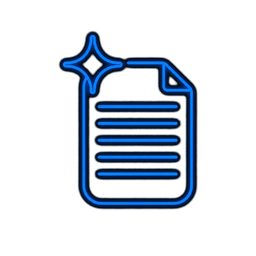
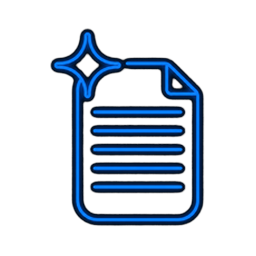
Иконки подключены к узлам, кружок 72 px
Узлы веера были безымянными кружками: восемнадцать одинаковых точек,
различавшихся только подписью. Теперь у каждой системы своё лицо, и докладчик
показывает рукой на предмет, а не зачитывает список.

Размер 72 px согласован до генерации, а не подобран после: рисунок требует
больше места, чем точка, а смотреть на один размер и получить другой заказчику
незачем.

Знаки приведены к одному оптическому размеру. Генератор кадрирует как придётся —
замер показал разброс от 54 до 95 процентов ширины холста, и при одинаковом
размере элемента это читалось бы как иконки разного веса. Каждый знак обрезан
по своим границам и вписан в 78% холста по большей стороне. Именно по большей:
у «AIAN перевозки» знак широкий и низкий, растягивать его по высоте нельзя.
После нормализации большая сторона у всех 77–78%.

Знак сохраняет собственный фирменный синий и не красится в цвет стадии. Цвет
стадии несут волна под знаком, подпись передела и строка возврата; иконка
отвечает за узнавание продукта. Один цвет не может значить двух вещей.

Связь «система — иконка» идёт по имени проекта: своего кода у проекта в данных
нет, а заводить новое поле значит развести «сцену» и «цепочку». Имя переименуют —
иконка исчезнет молча, поэтому в отладочный крючок выставлен список систем без
иконки, и он проверяется замером, а не доверием.

Ядро-точка осталась запасным видом: если иконка не найдена, узел рисуется
точкой, а не пустым кружком.

Проверено прогоном по всем восьми блокам: 18 узлов, 18 знаков, ни одного
[…]

Changed region(s): [[0.1875, 0.0938, 0.8125, 0.9062]]

diff --git a/сцена.html b/сцена.html
@@ -187,10 +187,21 @@ body.вглубь .сквозная{pointer-events:none}
   width:min(20vw,220px)}
 .узел.виден{opacity:1;pointer-events:auto}
 .узел.ушёл{opacity:0;pointer-events:none}
-.узел .кружок{width:52px;height:52px;margin:0 auto;border-radius:50%;position:relative;
+/* 72 px, а не 52: рисунок требует больше места, чем точка, и запас у веера
+   есть — узлы стоят свободно. Размер согласован с заказчиком до генерации
+   иконок, чтобы он смотрел на тот же размер, какой получит. */
+.узел .кружок{width:72px;height:72px;margin:0 auto;border-radius:50%;position:relative;
   display:grid;place-items:center;transition:transform .2s}
 .узел:hover .кружок{transform:scale(1.1)}
-.узел .ядро{width:20px;height:20px;border-radius:50%;background:currentColor}
+/* Ядро осталось запасным видом: если иконка для системы не найдена, узел
+   рисуется точкой, а не пустым кружком. Молча ломаться он не должен. */
+.узел .ядро{width:22px;height:22px;border-radius:50%;background:currentColor}
+/* Знак сохраняет собственный фирменный синий и не красится в цвет стадии:
+   цвет стадии несут волна под ним, подпись передела и строка возврата, а
+   иконка отвечает за узнавание продукта. Один цвет не может значить двух
+   вещей — стадию и систему. */
+.узел .знак{width:100%;height:100%;display:block;object-fit:contain;
+  filter:drop-shadow(0 0 12px rgba(2,174,240,.55))}
 .узел .волна{position:absolute;inset:0;border-radius:50%;background:currentColor;
   animation:пульс 3.2s ease-in-out infinite}
 @keyframes пульс{0%,100%{transform:scale(1);opacity:.26}50%{transform:scale(1.5);opacity:.05}}
@@ -732,6 +743,31 @@ body.вглубь .подсказка{opacity:0}
     });
   }
 
+  /* Иконки систем. Ключ — имя проекта, потому что своего кода у проекта в
+     данных нет: данные перенесены из «цепочки» дословно, и заводить там новое
+     поле значит развести два файла. Имя переименуют — иконка исчезнет молча,
+     поэтому совпадения считаются и выставлены в отладочный крючок. */
+  var ИКОНКИ = {
+    "GeoRAG":                          "georag",
+    "Цифровая геология":               "цифровая_геология",
+    "ABAI — моделирование пласта":     "abai_пласт",
+    "ЦД пласта":                       "цд_пласта",
+    "ABAI — УЗ, ГТМ, ЦРНС":            "abai_гтм",
+    "ИИ в УТО":                        "ии_уто",
+    "KMG Automation — ММГ":            "kmg_automation",
+    "KMG.AIAN — мониторинг перевозки": "aian_перевозка",
+    "Предиктивная аналитика ПКОП":     "пкоп",
+    "PME — энергомониторинг":          "pme",
+    "OTS — тренажёры операторов":      "ots",
+    "KMG.AIAN — баланс НП":            "aian_баланс",
+    "TUMAR":                           "tumar",
+    "Коргау":                          "коргау",
+    "ЭНД":                             "энд",
+    "AI-Broker":                       "ai_broker",
+    "ProcuPriceMetal":                 "procupricemetal",
+    "KMG COWORK":                      "kmg_cowork"
+  };
+
   /* ================= веер систем ================= */
   /* Места узлов задаются в процентах окна, а не считаются от экранной рамки
      площадки: во время наезда рамка отдаёт промежуточные значения, и веер
@@ -777,8 +813,12 @@ body.вглубь .подсказка{opacity:0}
       г.setAttribute("tabindex", "-1");
       г.setAttribute("aria-label", "Система " + м.проект.имя);
       var с = СОСТОЯНИЯ[м.проект.состояние];
+      var знак = ИКОНКИ[м.проект.имя];
       г.innerHTML =
-        '<div class="кружок"><span class="волна"></span><span class="ядро"></span></div>' +
+        '<div class="кружок"><span class="волна"></span>' +
+        (знак ? '<img class="знак" src="медиа/иконки/' + знак + '.png" alt="">'
+              : '<span class="ядро"></span>') +
+        '</div>' +
         '<div class="подпись">' + м.проект.имя + '</div>' +
         '<span class="сост ' + с.класс + '">' + с.имя + '</span>';
       г.addEventListener("click", function(с){ с.stopPropagation(); открытьСистему(б, м); });
@@ -1152,6 +1192,14 @@ body.вглубь .подсказка{opacity:0}
     системаОткрыта: function(){ return системаОткрыта; },
     морф: морф,
     МОРФ_МС: МОРФ_МС,
+    /* Сколько систем осталось без иконки: имя проекта — ключ, и переименование
+       оборвало бы связь беззвучно. */
+    безИконки: function(){
+      return ВСЕ_БЛОКИ.reduce(function(нет, б){
+        return нет.concat(б.проекты.filter(function(пр){ return !ИКОНКИ[пр.имя]; })
+                                   .map(function(пр){ return пр.имя; }));
+      }, []);
+    },
     спрятатьМорф: спрятатьМорф,
     проявить: function(код){
       var б = ВСЕ_БЛОКИ.filter(function(д){ return д.код === код; })[0];
